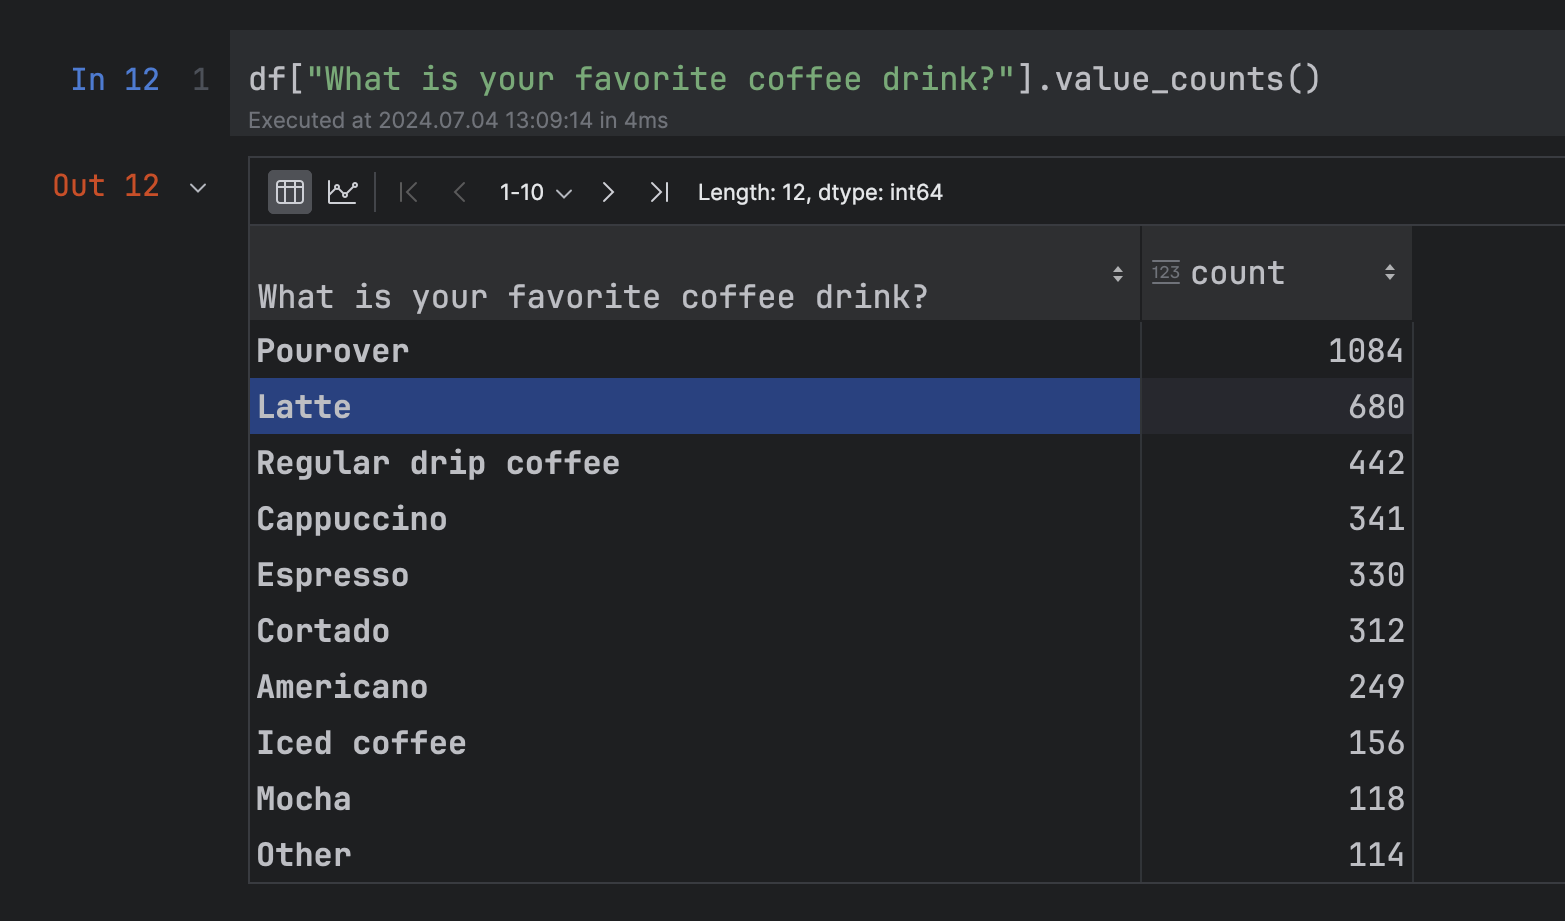
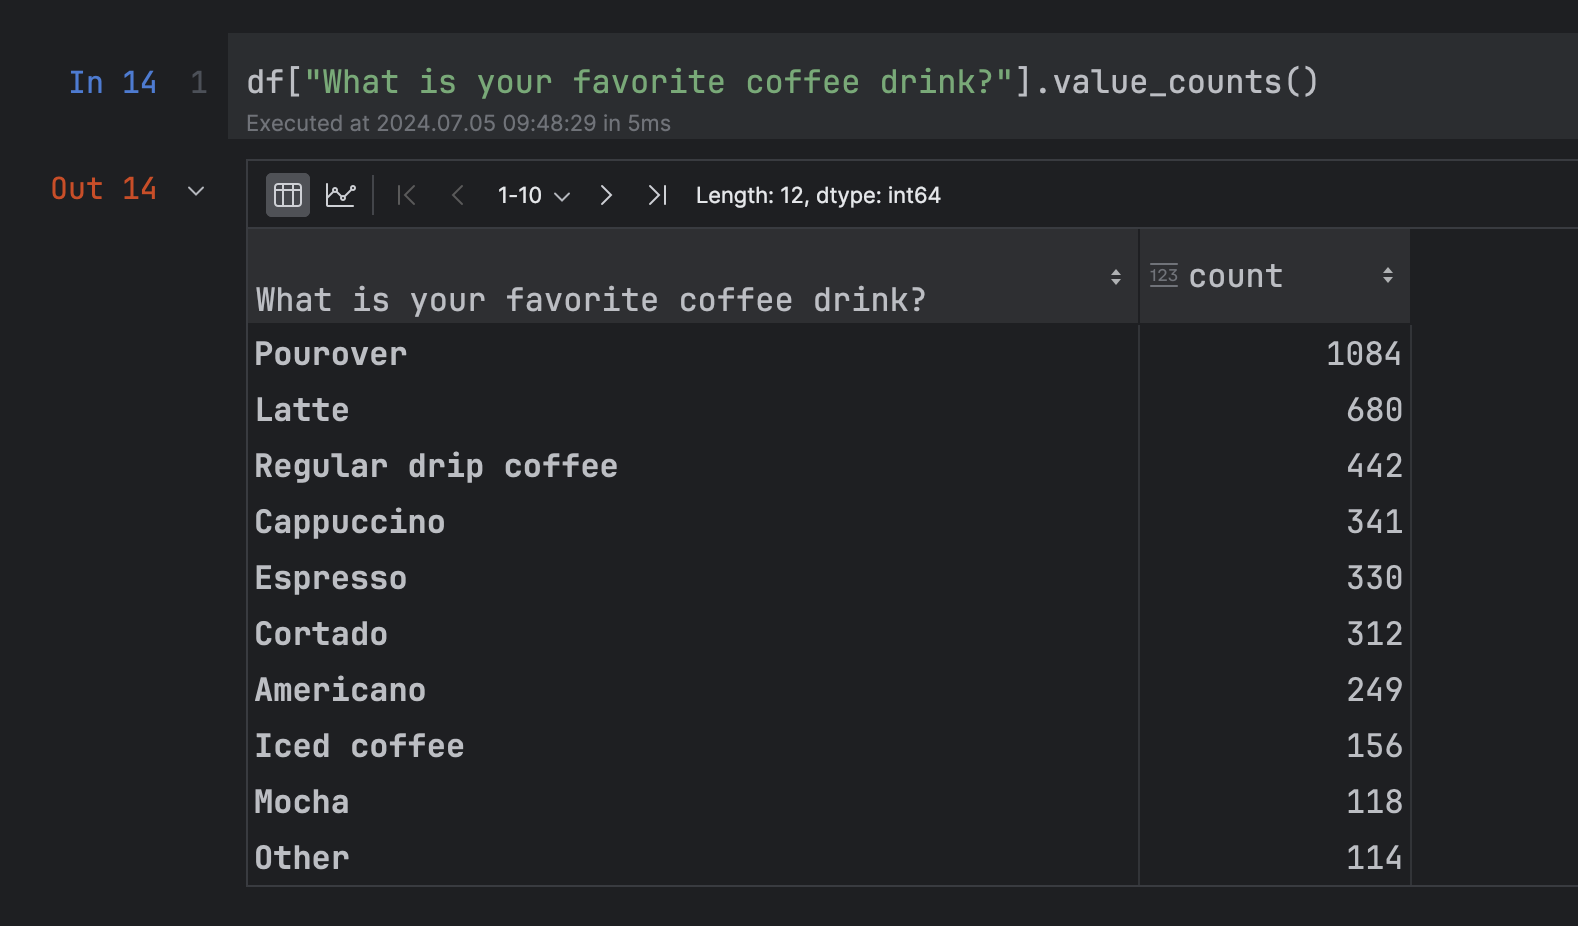
Continue pandas_matplotlib.html

diff --git a/pandas_matplotlib.html b/pandas_matplotlib.html
@@ -119,7 +119,7 @@ Date: March–July 2024
                 <p>
                     I first wanted to see the age distribution of everyone who had participated in the survey. Utilizing the <span class="font-monospace code-text">"What is your age?"</span> column, I created the following DataFrame, as seen in my Notebook:
                 </p>
-                <!-- Age results image -->
+                <!-- Age results Notebook image -->
                 <div class="row mb-4">
                     <div class="col-auto">
                         <img src="assets/images/pandas_matplotlib/notebook/age_results.png" class="img-fluid" style="max-height: 385px;" alt="pandas DataFrame showing age distribution results.">
@@ -131,7 +131,7 @@ Date: March–July 2024
                 <!-- Age results graph unordered vert -->
                 <div class="row mb-4">
                     <div class="col-auto">
-                        <img src="assets/images/pandas_matplotlib/graphs/age_unordered.png" class="img-fluid" style="max-height: 385px;" alt="Bar graph showing distribution of participants' ages—unordered.">
+                        <img src="assets/images/pandas_matplotlib/graphs/age_unordered.png" class="img-fluid" alt="Bar graph showing distribution of participants' ages—unordered.">
                     </div>
                 </div>
                 <p class="mb-4">
@@ -140,16 +140,16 @@ Date: March–July 2024
                 <!-- Age results graph ordered vert -->
                 <div class="row mb-4">
                     <div class="col-auto">
-                        <img src="assets/images/pandas_matplotlib/graphs/age_ordered_vert.png" class="img-fluid" style="max-height: 385px;" alt="Bar graph showing distribution of participants' ages—unordered.">
+                        <img src="assets/images/pandas_matplotlib/graphs/age_ordered_vert.png" class="img-fluid" alt="Bar graph showing distribution of participants' ages—unordered.">
                     </div>
                 </div>
                 <p class="mb-4">
                     Finally, I felt that a horizontal bar graph would be easier to read. I also simplified the age tick labels, rather than use the labels that are returned from the original survey. The final code I used can be seen below the graph:
                 </p>
                 <!-- Age results graph ordered horz -->
-                <div class="row mb-4">
+                <div class="row pb-2 mb-4">
                     <div class="col-auto">
-                        <img src="assets/images/pandas_matplotlib/graphs/age_ordered_horz.png" class="img-fluid" style="max-height: 385px;" alt="Bar graph showing distribution of participants' ages—unordered.">
+                        <img src="assets/images/pandas_matplotlib/graphs/age_ordered_horz.png" class="img-fluid" alt="Bar graph showing distribution of participants' ages—unordered.">
                     </div>
                 </div>
                 <!-- Code embed -->
@@ -163,18 +163,48 @@ Date: March–July 2024
                 <hr>
             </div>
 
-            <!-- PL/SQL -->
+            <!-- Favorite coffee drink -->
             <div class="container mb-5">
-                <h5 class="mb-4">Oracle PL/SQL</h5>
+                <h5 class="mb-4">Favorite coffee drink</h5>
                 <p>
-                    The following script is part of a <a href="https://github.com/peterjungers/sql/tree/main/portfolio_examples/08_oracle-plsql_lab7" class="link-light link-offset-1 link-underline-opacity-50 link-underline-opacity-100-hover" target="_blank">larger program</a> that also includes a stored procedure and two triggers. We were also tasked with writing a test script. It was written in my advanced SQL course.
+                    My next graph was to be based on the favorite coffee drink of participants:
                 </p>
+                <!-- Drink results, all ages, Notebook image -->
+                <div class="row pb-2 mb-4">
+                    <div class="col-auto">
+                        <img src="assets/images/pandas_matplotlib/notebook/drink_results.png" class="img-fluid" alt="pandas DataFrame showing age distribution results.">
+                    </div>
+                </div>
+<!--                <p class="mb-4">-->
+<!--                    Using the DataFrame, I then created a bar graph of the data:-->
+<!--                </p>-->
+                <!-- Age results graph unordered vert -->
+                <div class="row mb-4">
+                    <div class="col-auto">
+                        <img src="assets/images/pandas_matplotlib/graphs/drink_ages_all_index_labels.png" class="img-fluid" alt="Bar graph showing distribution of participants' ages—unordered.">
+                    </div>
+                </div>
                 <p class="mb-4">
-                    After user input has been validated, the values are passed to a <a href="https://github.com/peterjungers/sql/blob/main/portfolio_examples/08_oracle-plsql_lab7/AddLineItemSP.sql" class="link-light link-offset-1 link-underline-opacity-50 link-underline-opacity-100-hover" target="_blank">stored procedure</a>. Two triggers then run before any data is modified. The purpose of the program was to mimic how a user might update inventory data based on an order a customer had placed.
+                    The <span class="font-monospace code-text">value_counts()</span> function defaults to returning the data in descending order based on count. It was more intuitive to visualize the data in the order of younger ages to older ages, so I rewrote the DataFrame to grab data in the order that I wanted, which produced this graph:
                 </p>
+                <!-- Age results graph ordered vert -->
+                <div class="row mb-4">
+                    <div class="col-auto">
+                        <img src="assets/images/pandas_matplotlib/graphs/age_ordered_vert.png" class="img-fluid" alt="Bar graph showing distribution of participants' ages—unordered.">
+                    </div>
+                </div>
+                <p class="mb-4">
+                    Finally, I felt that a horizontal bar graph would be easier to read. I also simplified the age tick labels, rather than use the labels that are returned from the original survey. The final code I used can be seen below the graph:
+                </p>
+                <!-- Age results graph ordered horz -->
+                <div class="row mb-4">
+                    <div class="col-auto">
+                        <img src="assets/images/pandas_matplotlib/graphs/age_ordered_horz.png" class="img-fluid" alt="Bar graph showing distribution of participants' ages—unordered.">
+                    </div>
+                </div>
                 <!-- Code embed -->
-                <div class="mb-4">
-                    <script src="https://gist.github.com/peterjungers/76397cb8fd01e91b85404d9db2b9918d.js"></script>
+                <div class="mb-5">
+                    <script src="https://gist.github.com/peterjungers/b336f7b20c0f0b6df4c74f0193e556de.js"></script>
                 </div>
             </div>
 
